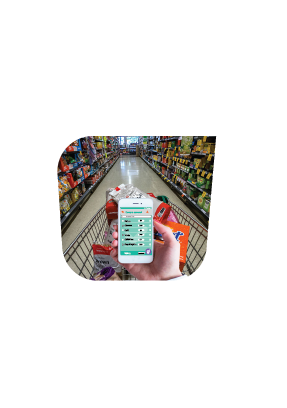
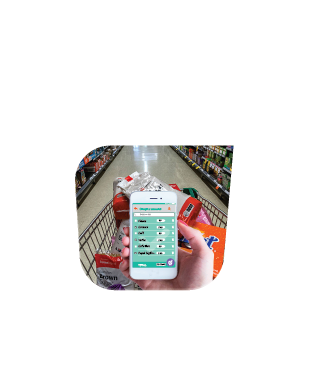
se sigue trabajando en seccion about

Changed region(s): [[0.1951, 0.3279, 0.7526, 0.8049]]

diff --git a/src/pages/about/about.scss b/src/pages/about/about.scss
@@ -12,9 +12,20 @@ page-about {
     }
 
     .logo {
-        max-width: 250px !important;
+        max-width: 200px !important;
         margin: auto;
         width: 100%;
+    }
+
+    .contacto {
+        color: white;
+        font-size: 16px;
+        font-weight: bold;
+        margin-top: 0px;
+    }
+
+    .contacto a {
+        color: white;
     }
 
     .toolbar-title-md {
@@ -23,30 +34,33 @@ page-about {
     }
 
     .imagen {
-        position: relative;
-        margin: auto;
+        position: absolute;
+        margin-left: auto;
+        margin-right: auto;
+        left: 0;
+        right: 0;
+        bottom: 0;
     }
 
     .icono {
-        float: left;
         width: 48px;
         height: 48px;
         position: absolute;
-        bottom: -140px;
+        bottom: 16px;
     }
 
     .icono-indigo {
-        float: right;
         width: 48px;
         height: 48px;
         position: absolute;
-        bottom: -140px;
+        bottom: 16px;
+        right: 16px;
     }
 
     .texto {
         font-family: "decompras-font2" !important;
         color: white;
-        font-size: 20px;
+        font-size: 18px;
         padding-right: 15%;
     }
 }

diff --git a/src/pages/about/about.html b/src/pages/about/about.html
@@ -14,11 +14,12 @@
 
 
 <ion-content class="toolbar-background-decompras" padding>
-  <ion-row padding>
+  <div style="text-align: center;">
     <img class="logo" src="assets/login/logo.svg" alt="">
-  </ion-row>
+  </div>
   <ion-row>
     <p class="texto">Armá, gestioná y compartí tus listas de compras de una manera mas inteligente y facil</p>
+    <p class="contacto">Contacto y/o sugerencias: <a href="mailto:info@decompras.indigodesign.com.ar">info@decompras.indigodesign.com.ar</a></p>
     <img class="imagen" src="assets/acercade/imagen.png" alt="">
     <img class="icono" src="assets/acercade/icono.png" alt="">
     <img class="icono-indigo" src="assets/acercade/logo-indigo.png" alt="">
